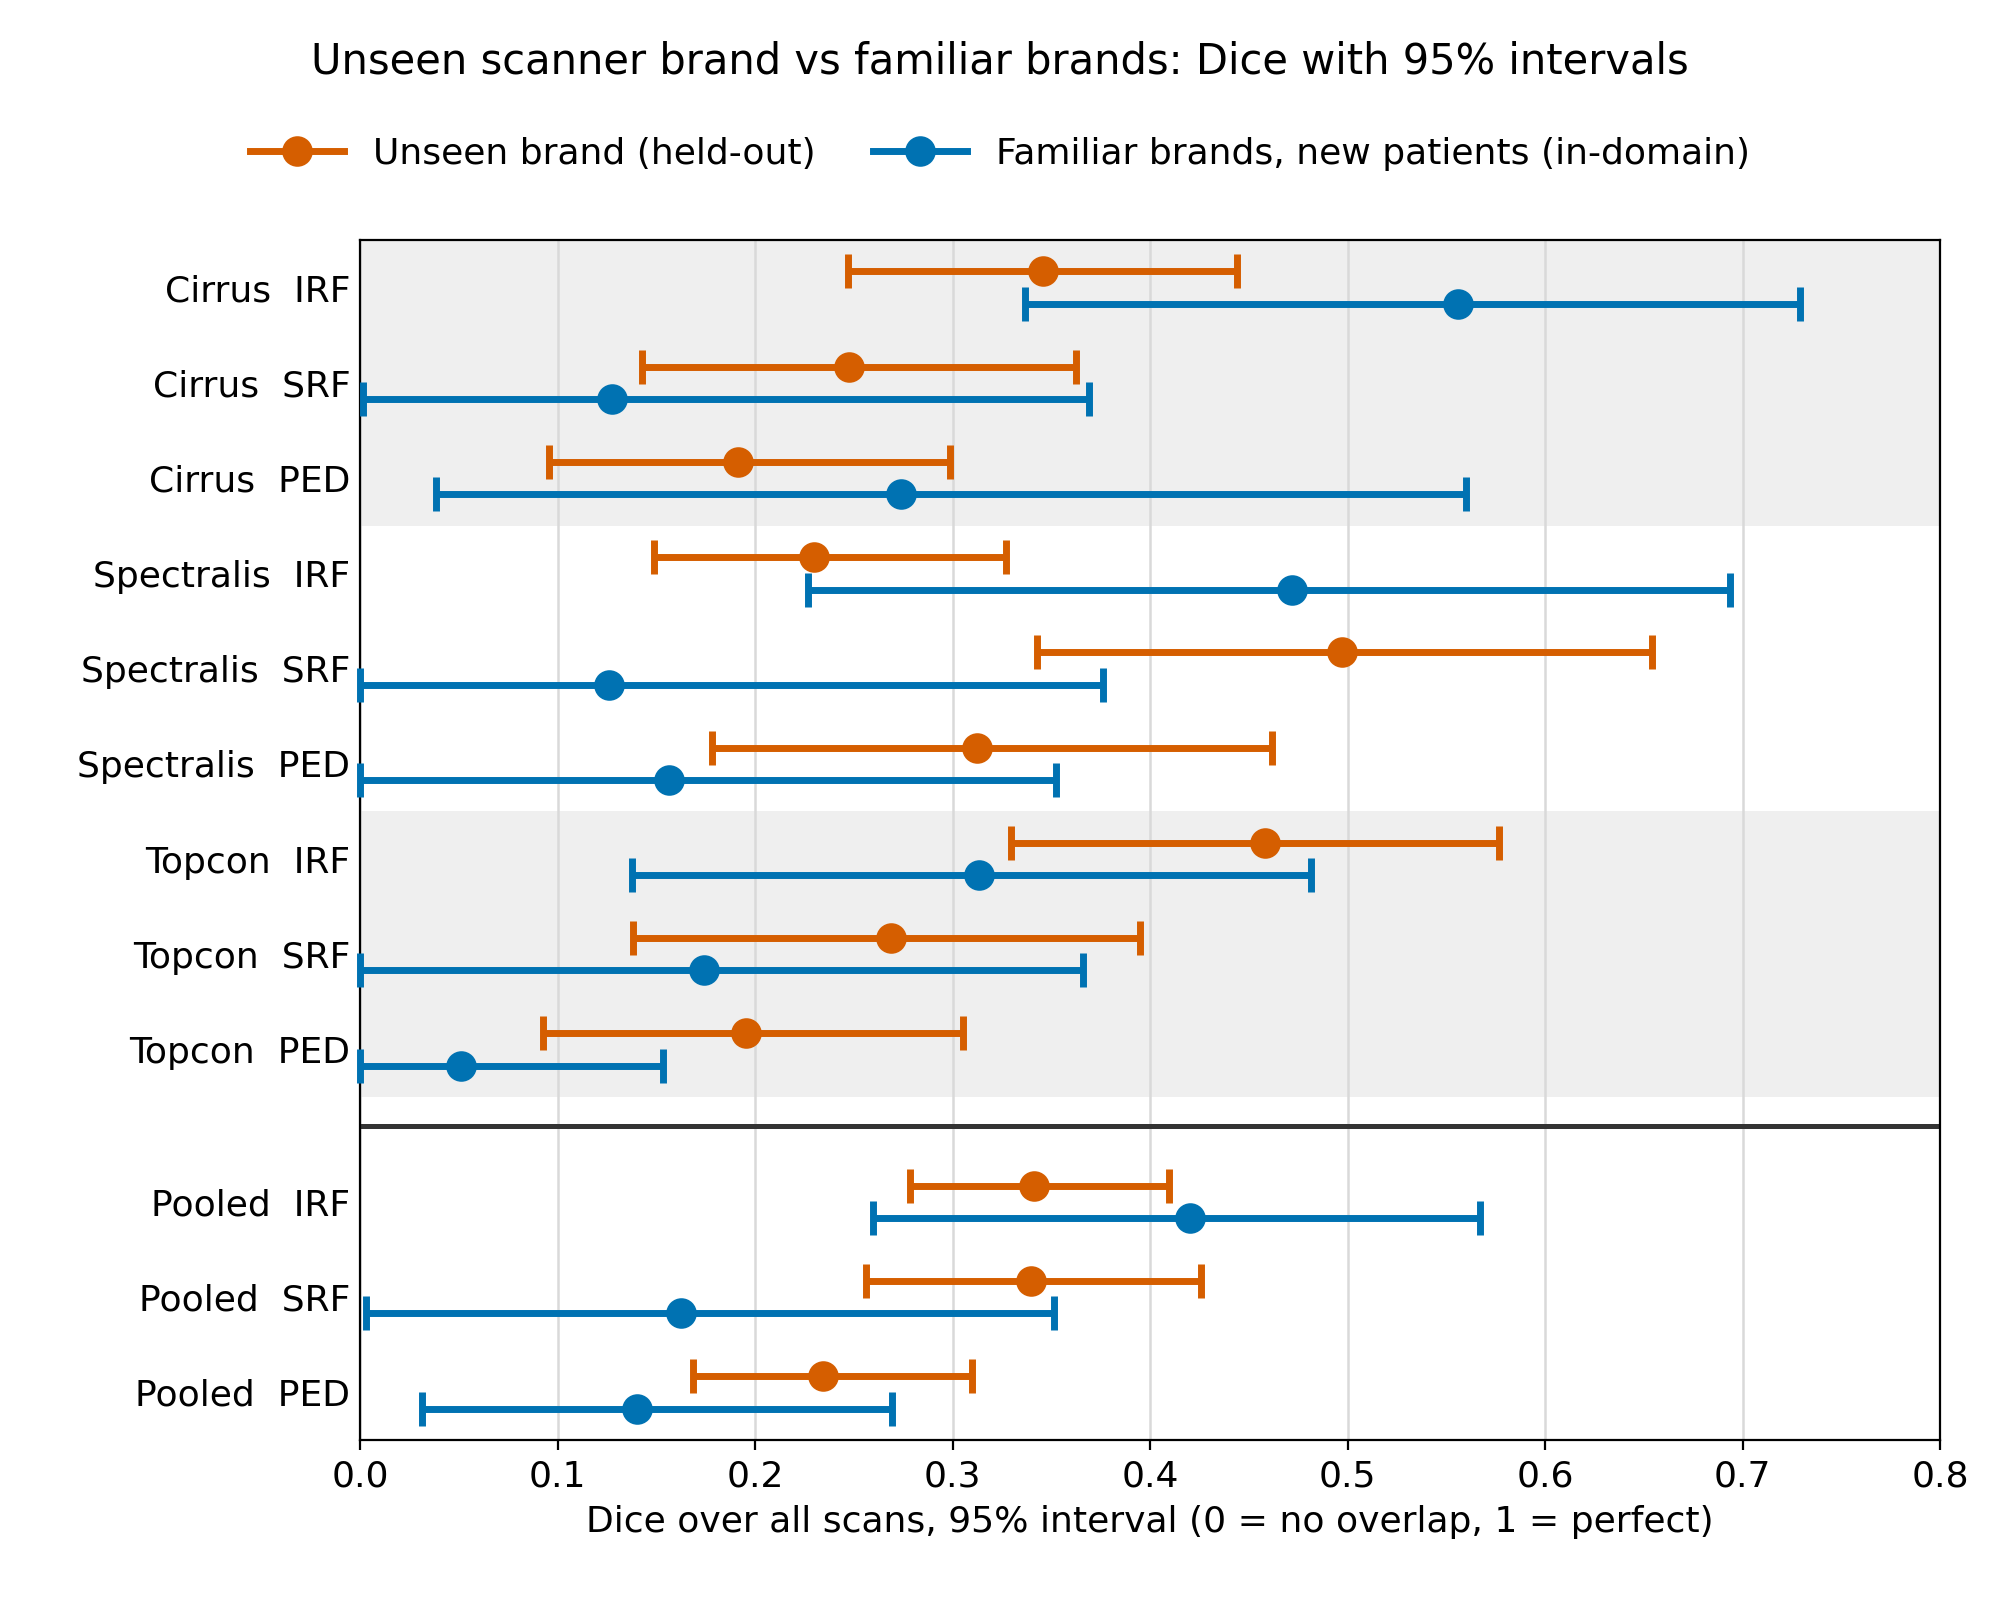
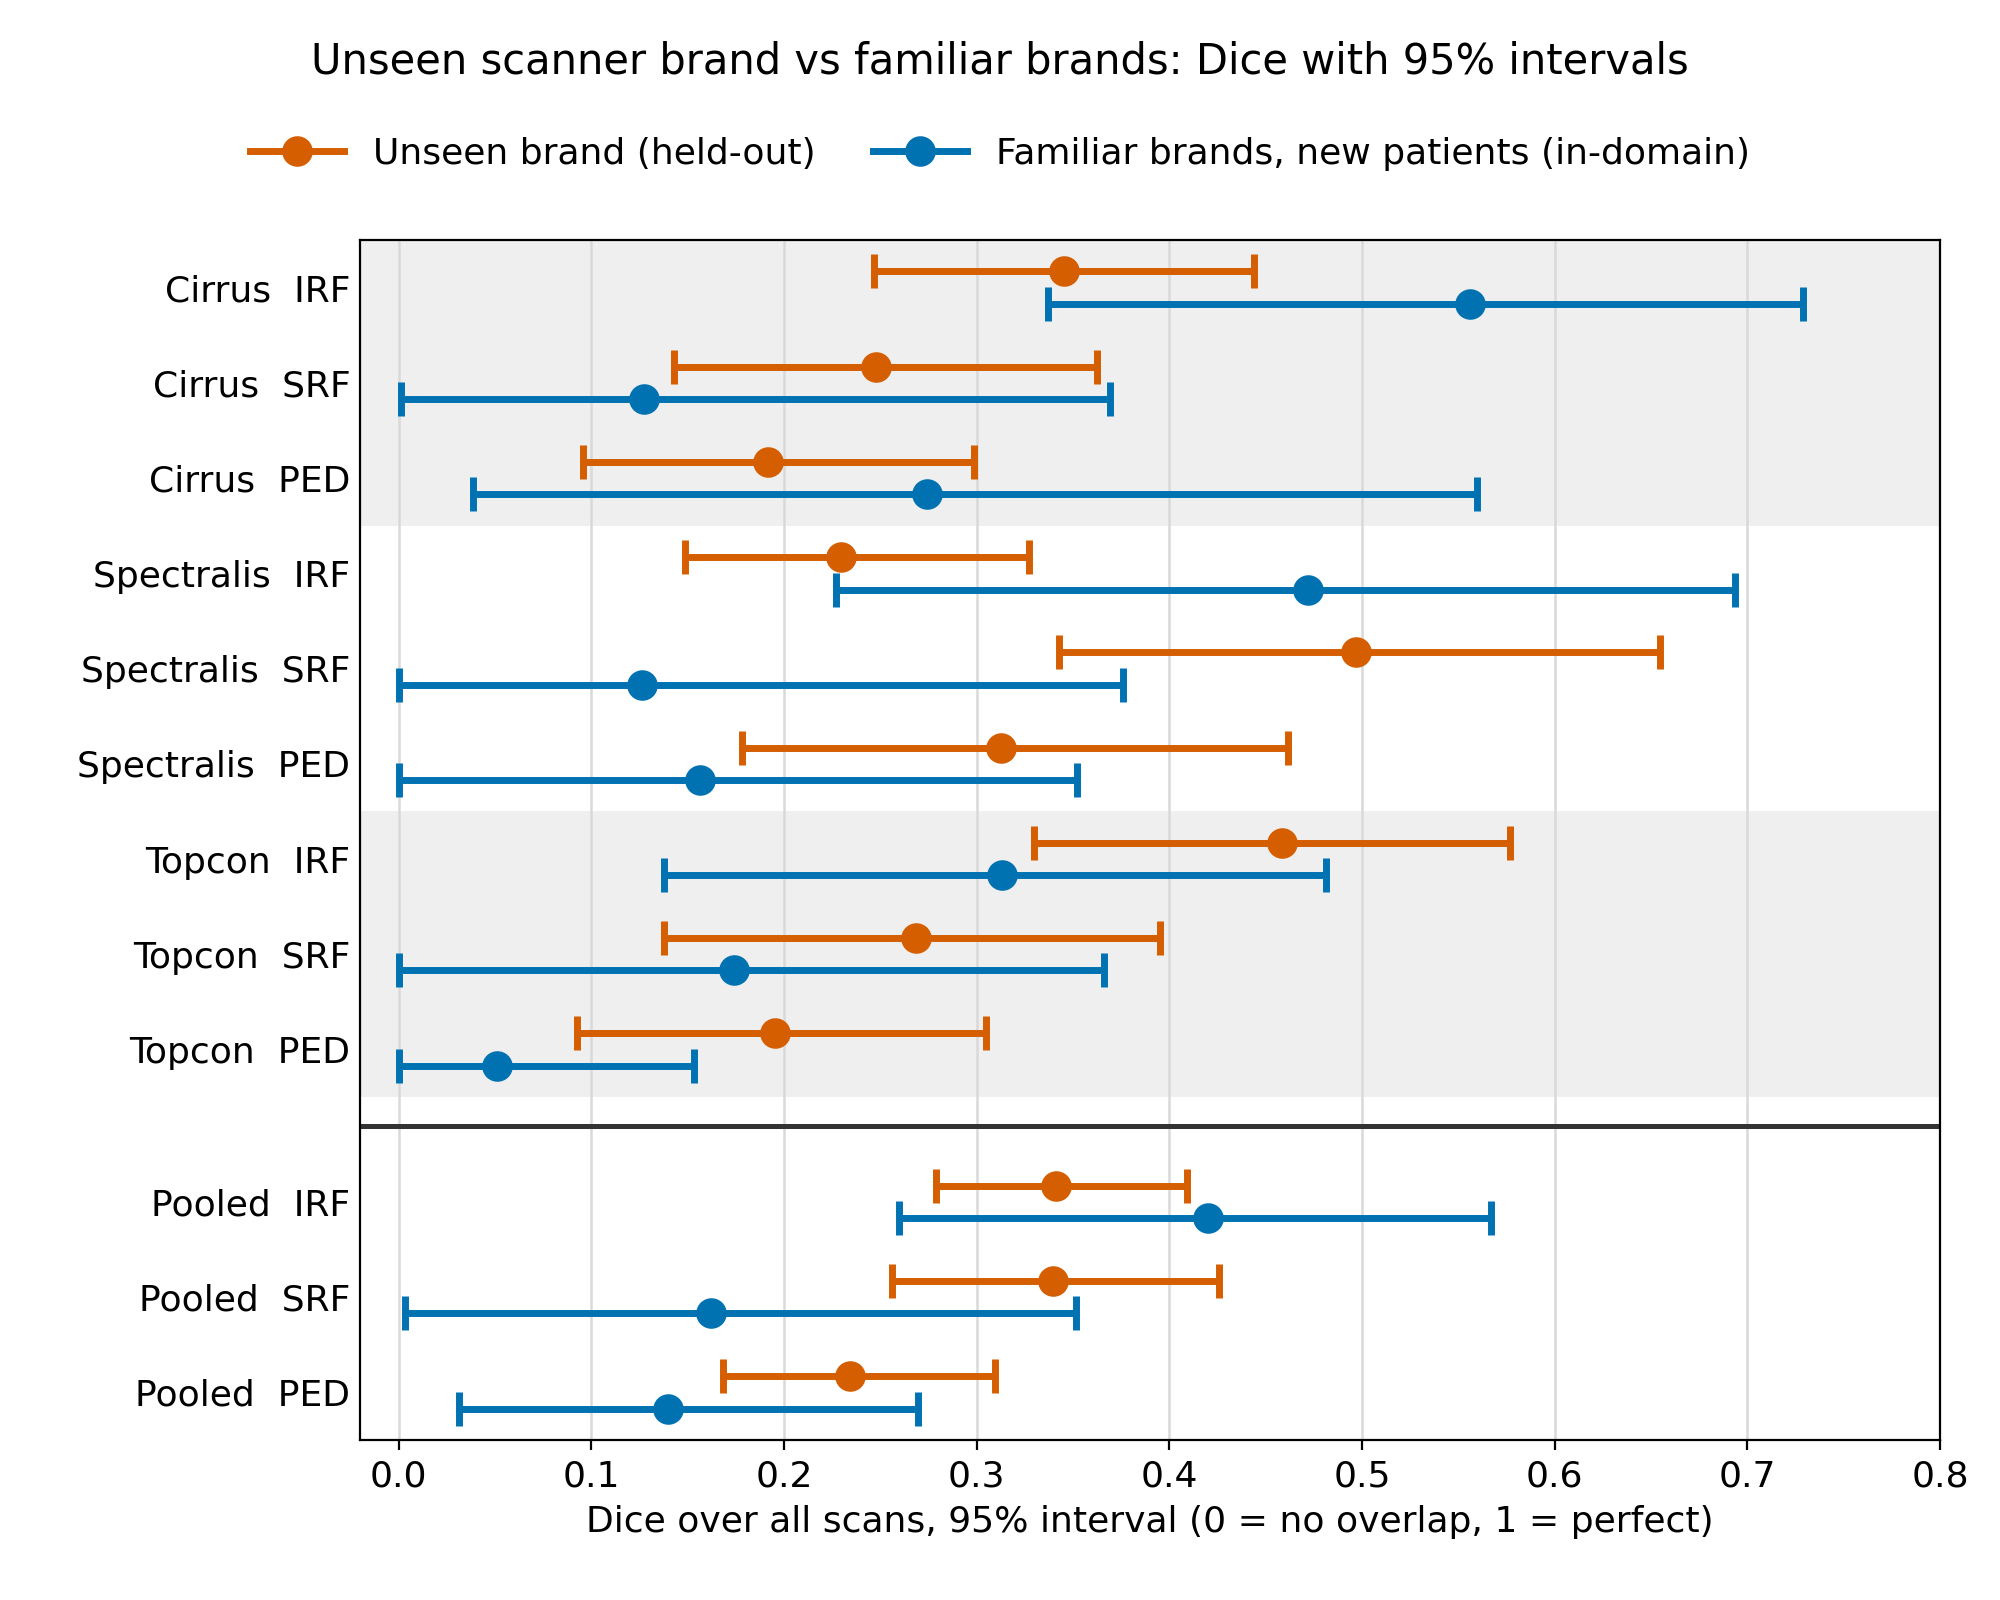
docs: show interval caps at Dice 0 in Figure 2 and point the README to Figure 4
Figure 2's x-axis now starts at -0.02 so the end caps of the four
intervals that reach 0 are no longer hidden under the axis edge; ticks
still start at 0 and the clipping check is unchanged. Figure 4 needed no
change: its intervals stay at least 0.145 inside both edges. The README
headline caption is followed by a link to Figure 4 of docs/10, section 5.4.

diff --git a/scripts/07_make_figures.py b/scripts/07_make_figures.py
@@ -248,7 +248,7 @@ def dice_intervals(data: dict) -> str:
         for yy, (held, ref) in zip(y, arms, strict=True):
             for e, off, col in ((held, 0.17, HELD), (ref, -0.17, REF)):
                 interval(ax, (e["value"], e["ci_low"], e["ci_high"]), yy + off, fmt="o", color=col)
-        ax.set_xlim(*lims)
+        ax.set_xlim(lims[0] - 0.02, lims[1])  # room for the caps of intervals that end at 0
         ax.set_xticks(np.arange(0, 0.81, 0.1))
         ax.set_xlabel("Dice over all scans, 95% interval (0 = no overlap, 1 = perfect)")
         place(

diff --git a/README.md b/README.md
@@ -16,6 +16,8 @@ A study of whether software that finds fluid in eye scans still works on a scann
 
 *Figure 2 of [`docs/10`](docs/10_analytical_validation_report.md). In every row the unseen brand's interval (orange) overlaps the familiar brands' interval (blue), so the pre-registered comparison established no difference, and the blue intervals are wide because each run's familiar-brand group has only 7 patients. The bottom three rows combine all three runs, an analysis I chose after seeing the results.*
 
+The difference between the two arms, with its own interval for each row, is shown in [Figure 4 of `docs/10` (section 5.4)](docs/10_analytical_validation_report.md#54-the-difference-bootstrapped-directly--post-hoc).
+
 ## In plain words
 
 An OCT scan uses light to take cross-section pictures of the back of the eye, a bit like an ultrasound but far finer. In some common eye diseases, fluid collects in or under the retina, and doctors watch how much there is to decide on treatment and to see whether it is working. I trained a model that outlines three kinds of this fluid in OCT scans. Hospitals use scanners from different companies whose images look different, so I asked: if the model learns from two brands, does it still work on a third it has never seen? The honest answer is that I could not detect a difference, but this test could only have detected a large one, so it does not show that the model works on the new brand. The aim was a trustworthy measurement rather than the highest score, and part of why the scores are modest is the pattern described in [finding 2](#what-i-found): the model marks fluid in scans that have none of that type, though even counting only scans that do contain it, the scores stay moderate.
